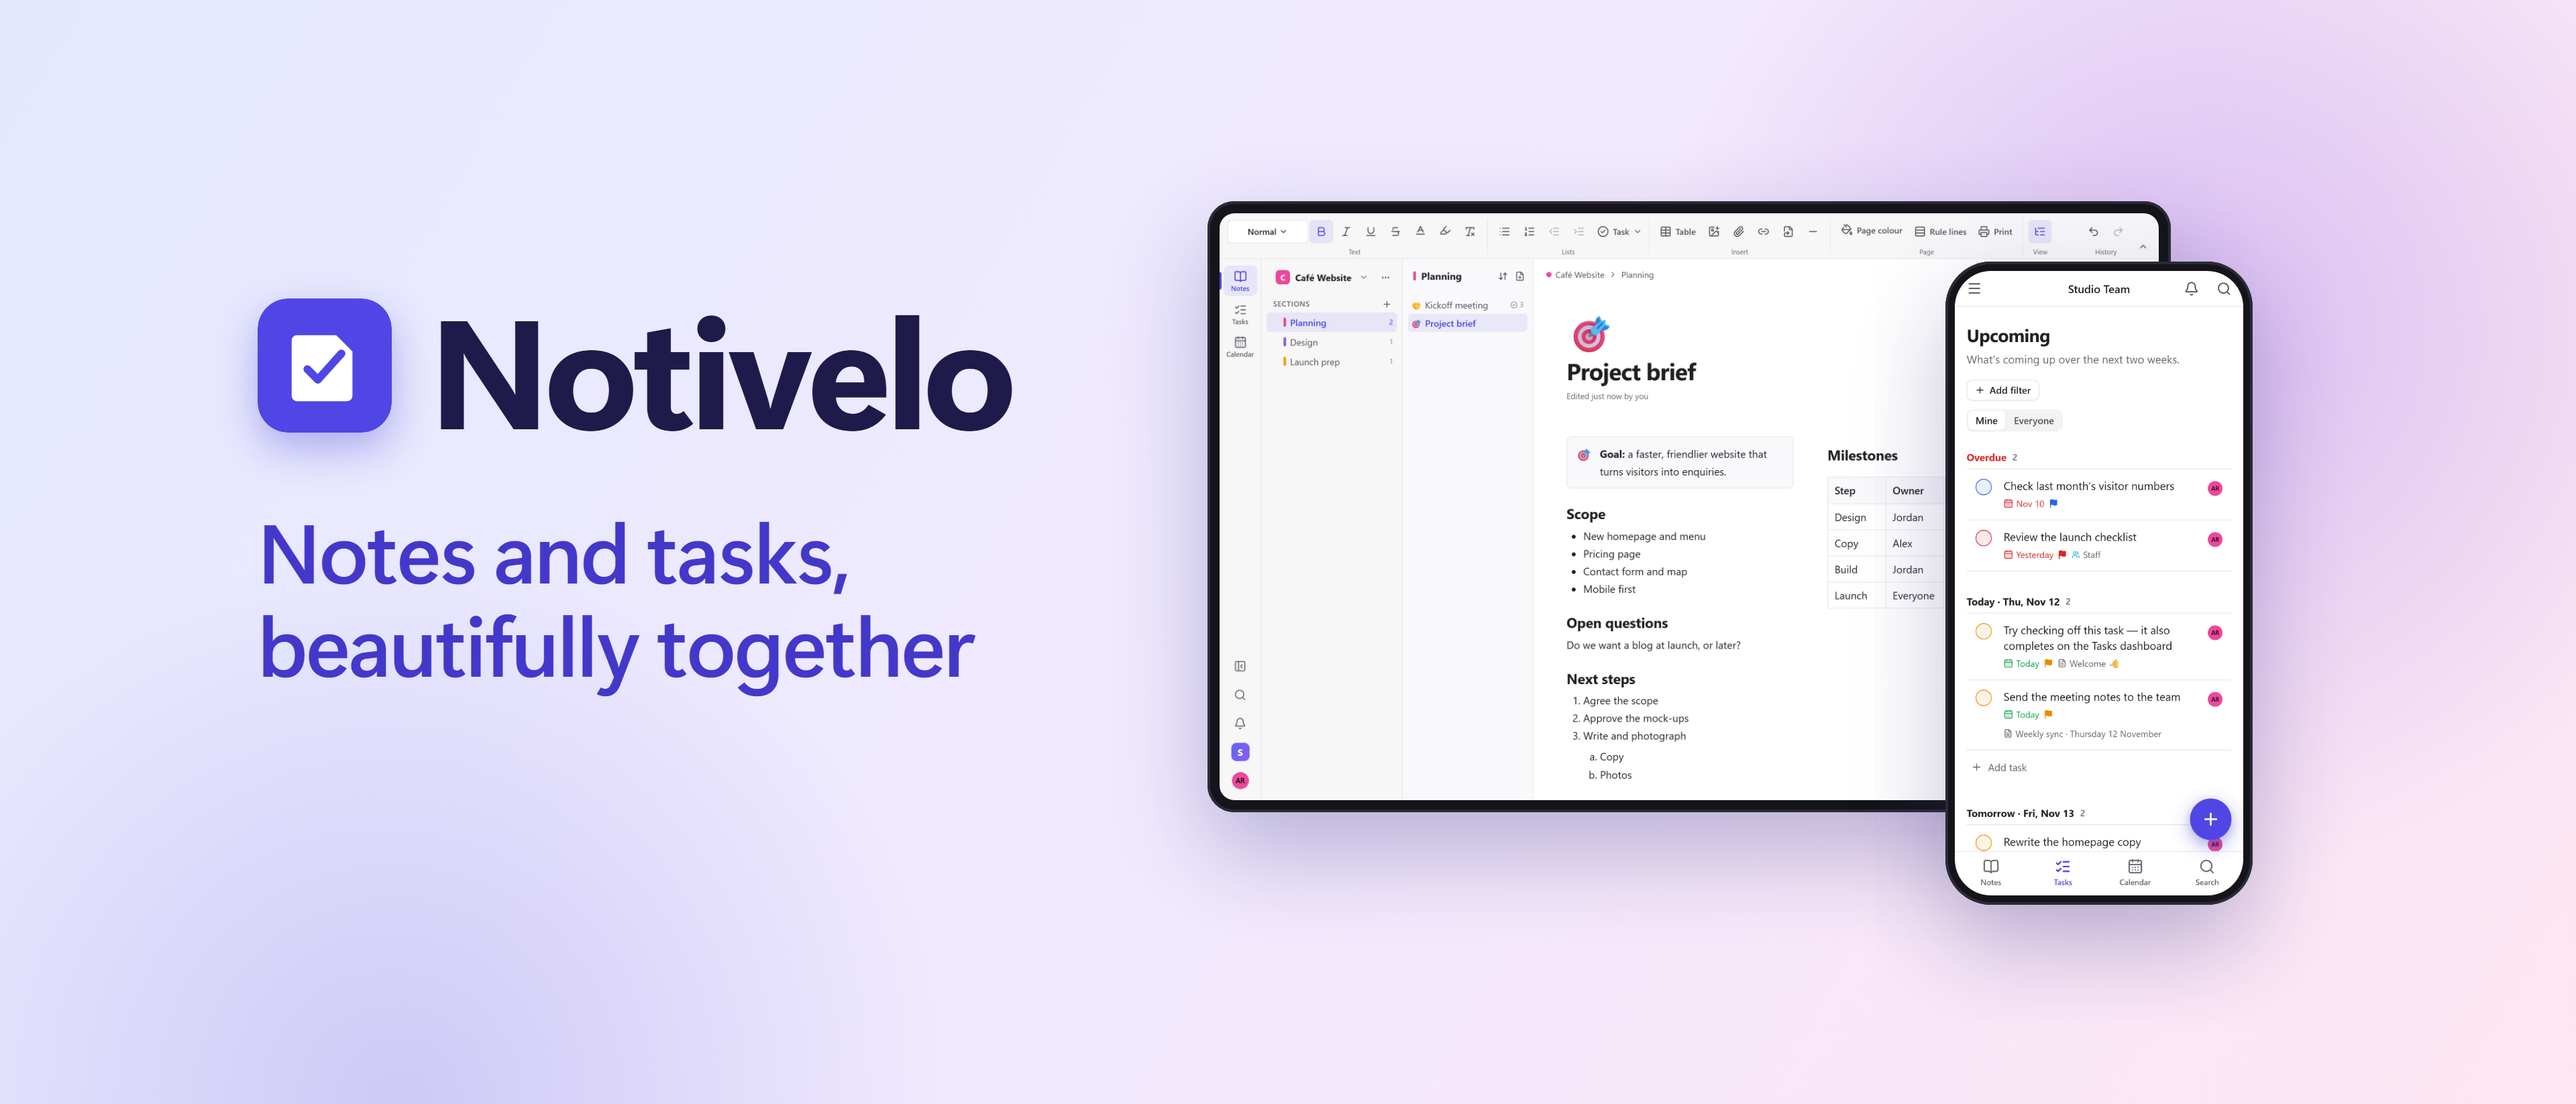
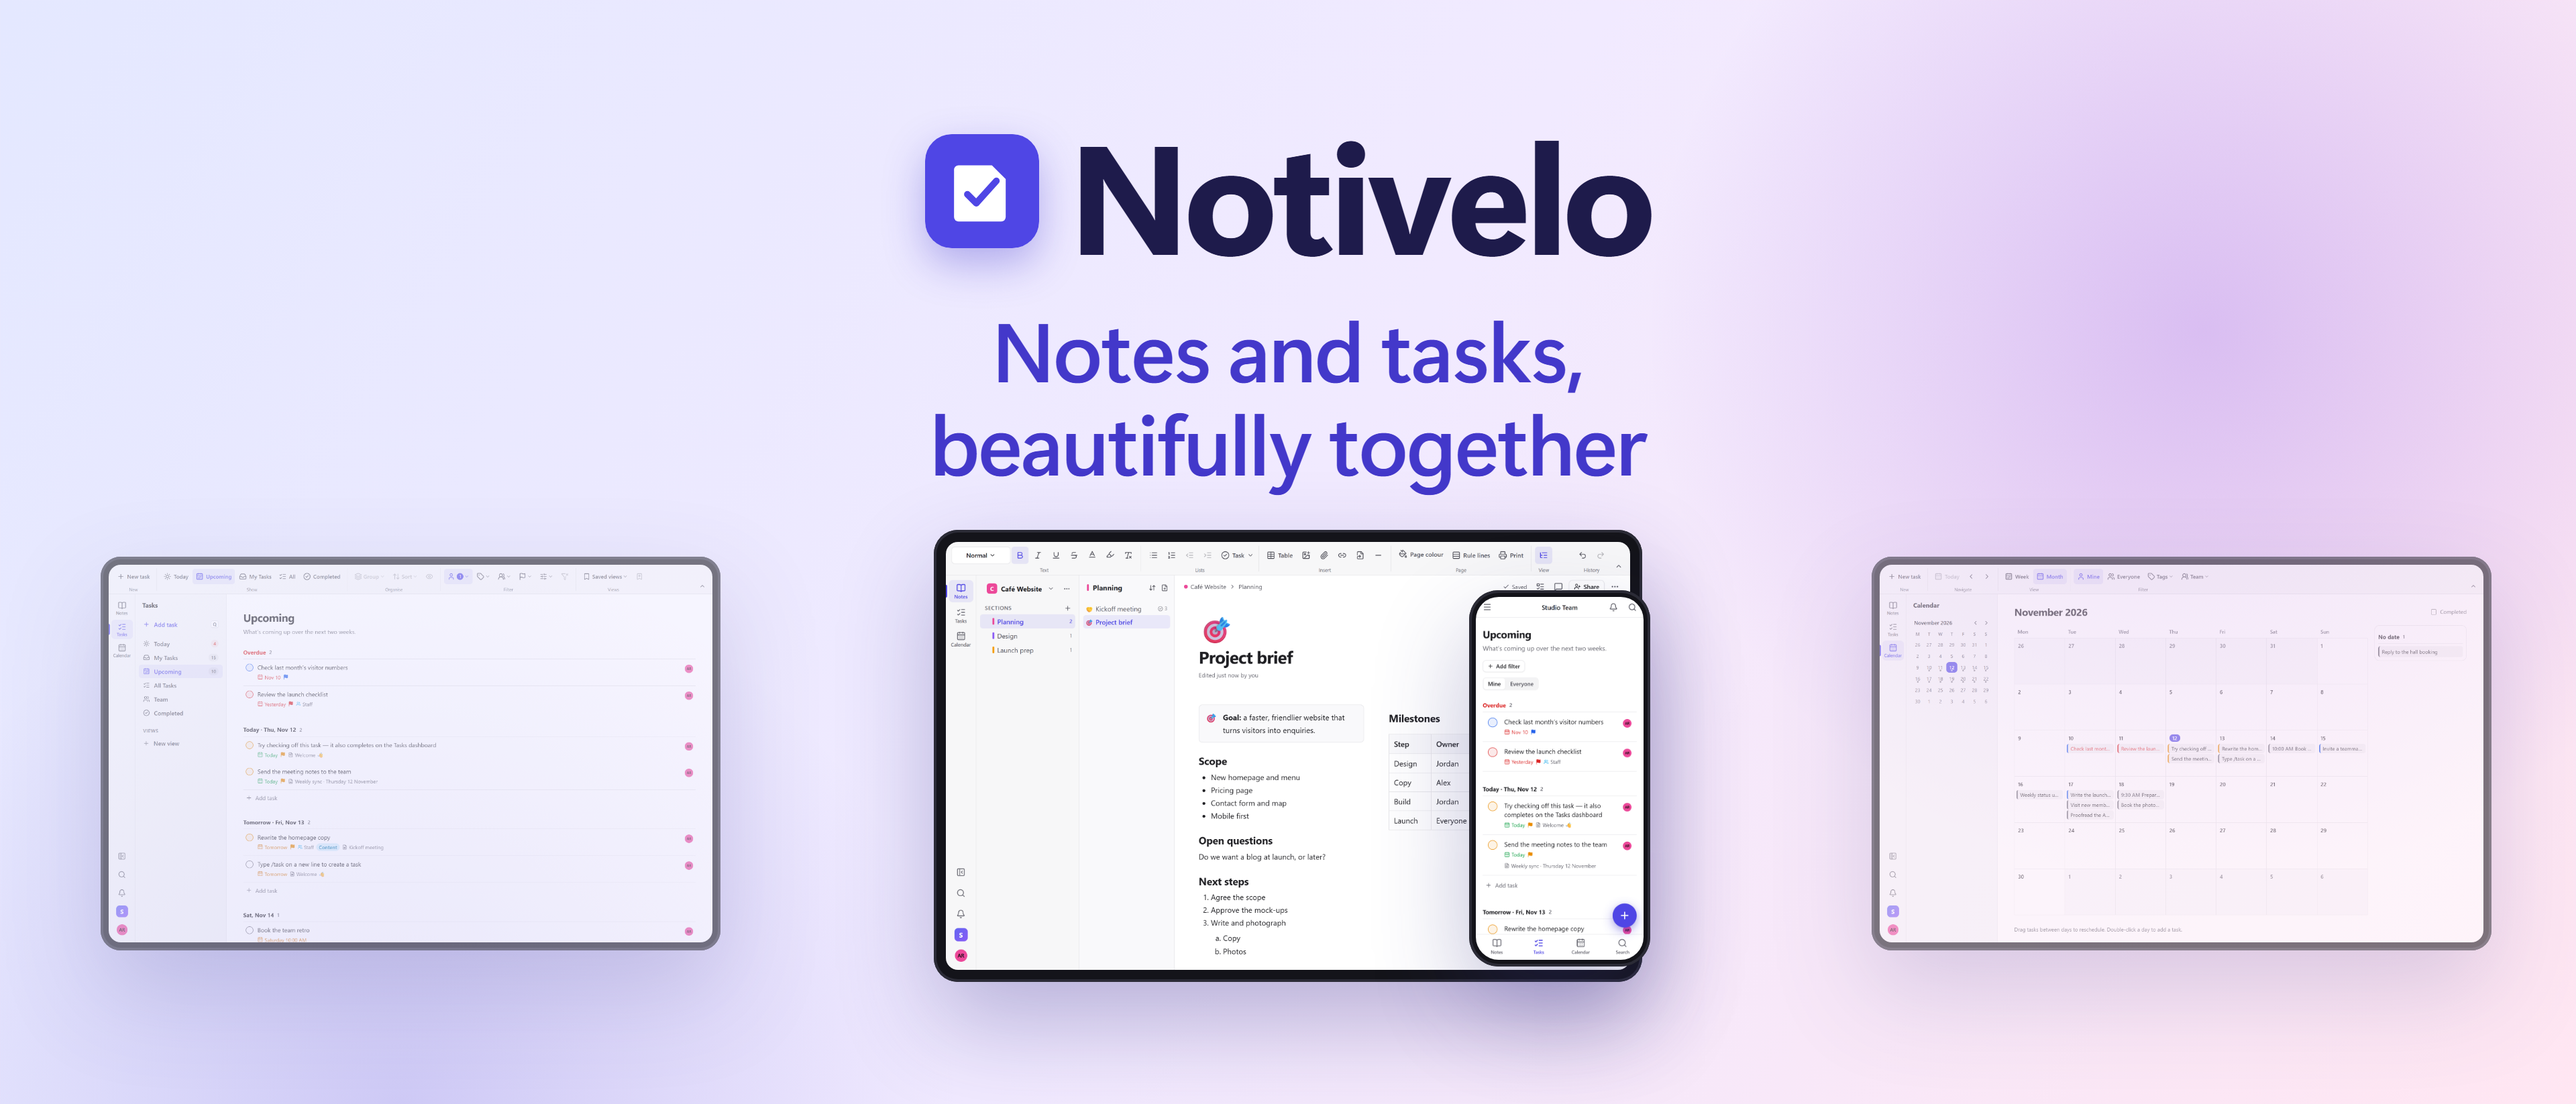
Header art: centred composition for the iPhone crop

diff --git a/docs/store/app-store-listing.md b/docs/store/app-store-listing.md
@@ -87,7 +87,7 @@ Version 0.4.4
 
 ## Header and search results
 
-Product page artwork in `docs/store/header/`: `header-5244x2950.png` and `header-3840x1646.png` (Header slot), and `search-3840x2560.png` and `search-1920x1280.png` (Search Results, 3:2). They use the captures in `docs/screens/` and keep text and devices inside a 10% safe area, clear of the bottom-left. Any other size, one line (squarer than 1.6:1 gets the bolder search layout), then `python scripts/store-assets/flatten.py` for RGB:
+Product page artwork in `docs/store/header/`: `header-5244x2950.png` and `header-3840x1646.png` (Header slot), and `search-3840x2560.png` and `search-1920x1280.png` (Search Results, 3:2). They use the captures in `docs/screens/` and keep everything essential in the centre 35% of the width (iPhone crops to that) and inside a 10% safe area; only decorative devices go toward the edges. Any other size, one line (squarer than 1.6:1 gets the bolder search layout), then `python scripts/store-assets/flatten.py` for RGB:
 
 ```
 node scripts/store-assets/header.cjs <width> <height> docs/store/header/<name>.png
